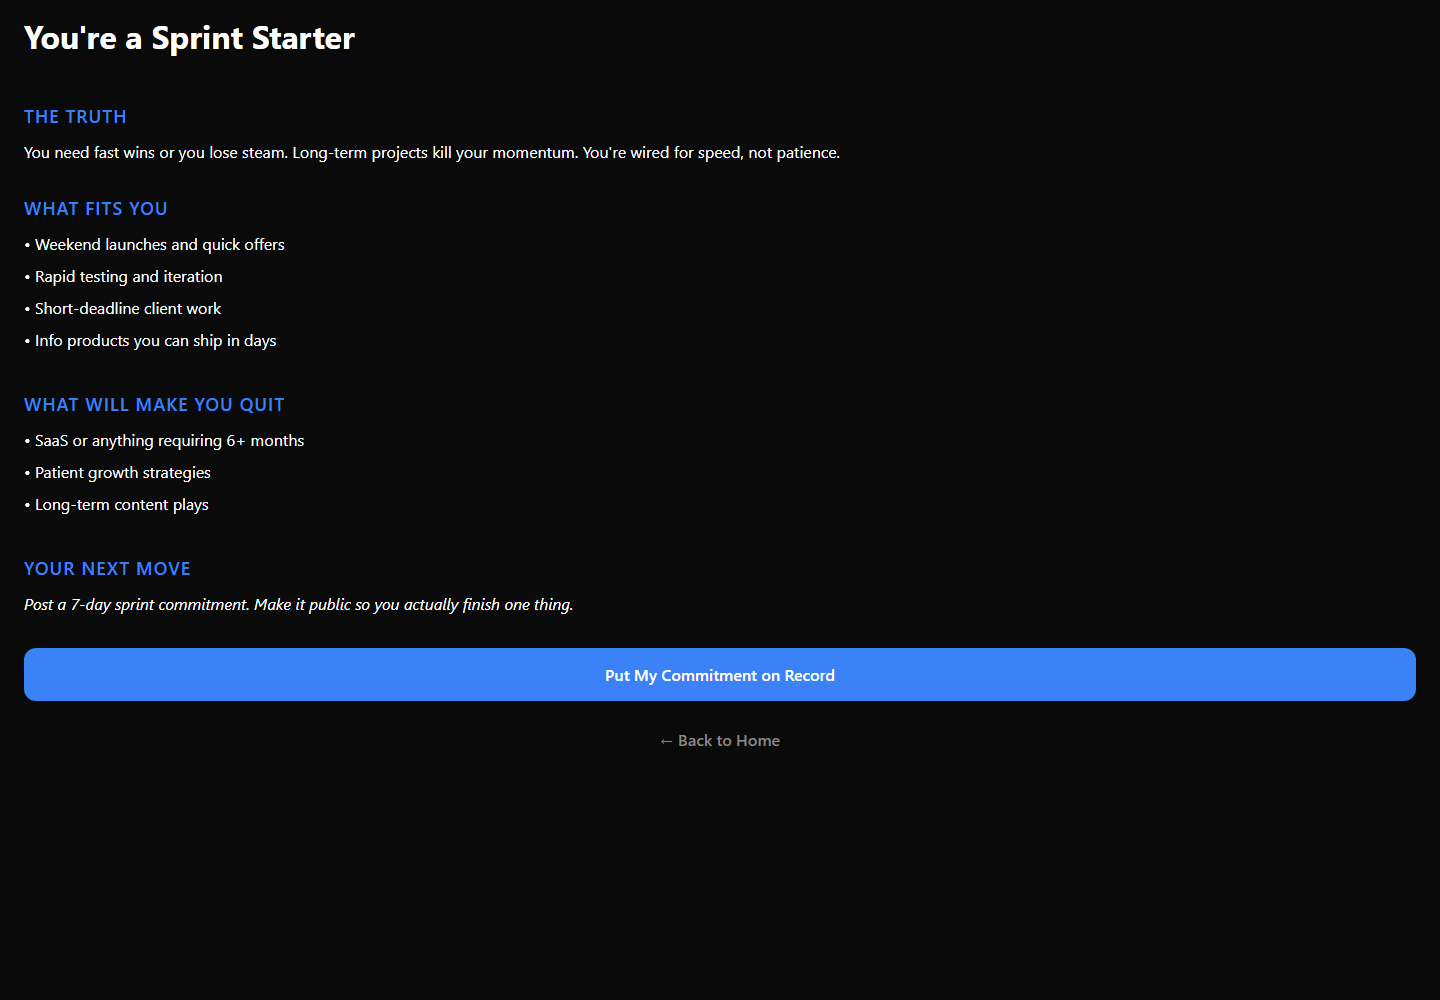
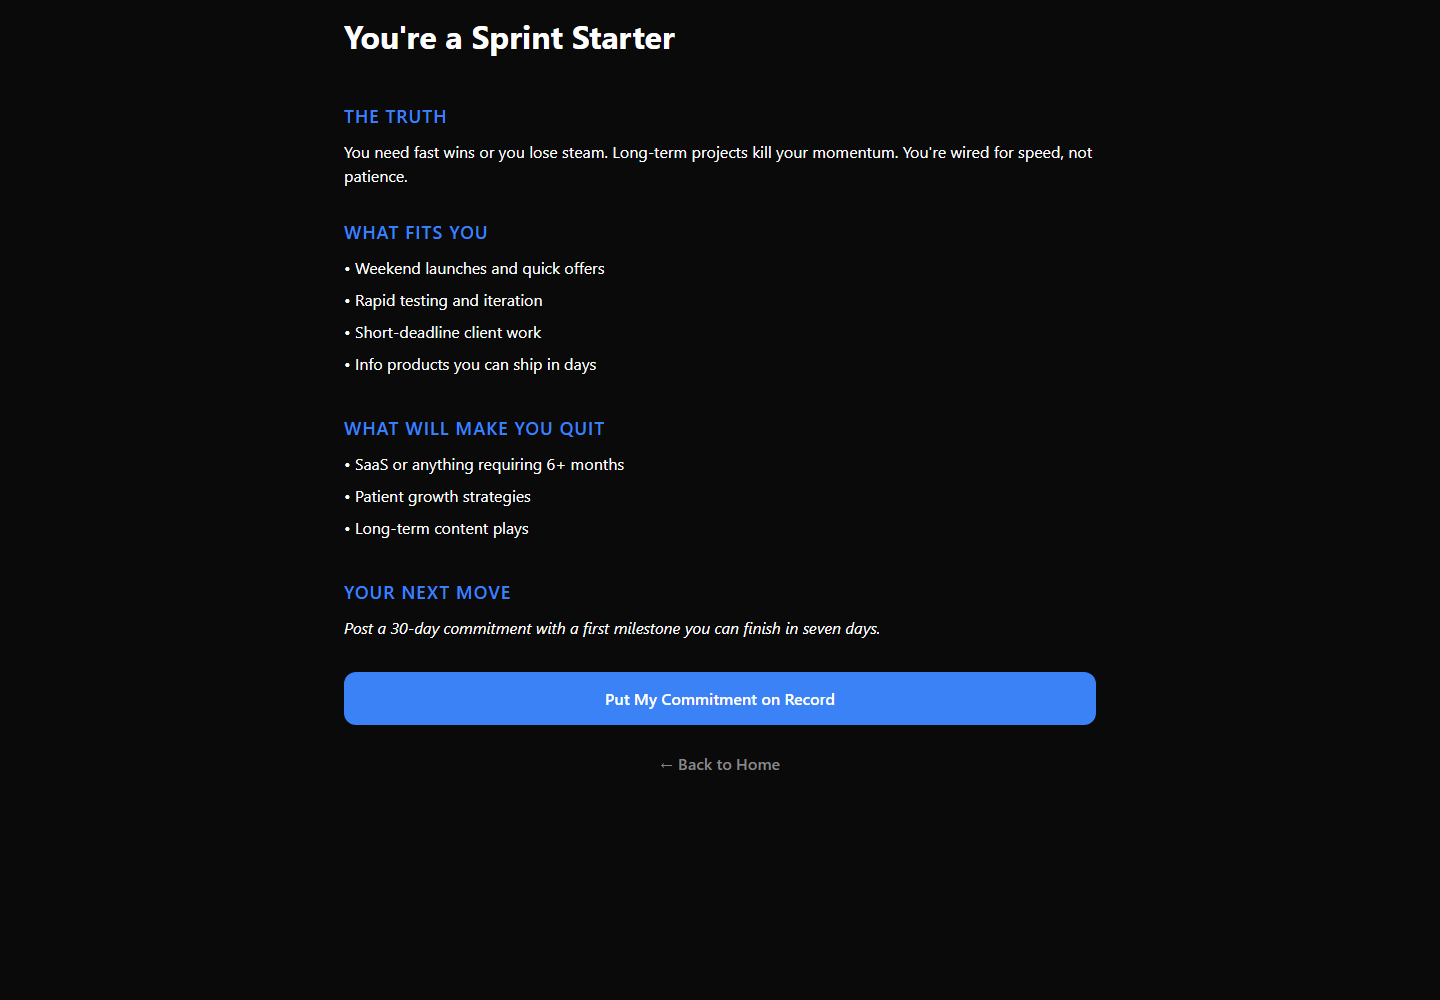
Align diagnostic guidance and improve result capture

diff --git a/constants/founderTypeQuestions.ts b/constants/founderTypeQuestions.ts
@@ -209,7 +209,7 @@ export const FOUNDER_TYPE_RESULTS = {
       'Long-term content plays',
     ],
     nextMove:
-      'Post a 7-day sprint commitment. Make it public so you actually finish one thing.',
+      'Post a 30-day commitment with a first milestone you can finish in seven days.',
   },
 
   'The 30-Day Executor': {
@@ -296,7 +296,7 @@ export const FOUNDER_TYPE_RESULTS = {
     ],
     quits: ['Everything—because you never start'],
     nextMove:
-      'Post a 7-day build sprint with ZERO customer interviews allowed. Ship something broken, then iterate.',
+      'Post a 30-day build commitment. Ship a small first version in seven days, then test and iterate.',
   },
 
   'The Scattered Starter': {

diff --git a/screens/ResultsScreen.tsx b/screens/ResultsScreen.tsx
@@ -175,6 +175,9 @@ const styles = StyleSheet.create({
     backgroundColor: '#0A0A0A',
   },
   contentContainer: {
+    width: '100%',
+    maxWidth: 800,
+    alignSelf: 'center',
     padding: 24,
     paddingTop: 16,
   },

diff --git a/README.md b/README.md
@@ -40,7 +40,7 @@ npm run web
 
 With no environment file, onboarding, diagnostic, results and the commitment form can be explored without a backend. Posting, check-ins and feed data require a configured Supabase project. Failed writes remain errors; they do not produce pretend public records.
 
-Copy the placeholders in [.env.example](.env.example) into an ignored local environment file only when configuring services. Replace the public Supabase URL/key and hCaptcha site key with actual public configuration. Never put a service-role key, Resend key, CAPTCHA secret or Sentry upload token in an EXPO*PUBLIC* variable. Public variables are embedded at build time and require a rebuild when changed. Server-only values belong in Supabase Function secrets or the source-map upload environment.
+Copy the placeholders in [.env.example](.env.example) into an ignored local environment file only when configuring services. Replace the public Supabase URL/key and hCaptcha site key with actual public configuration. Never put a service-role key, Resend key, CAPTCHA secret or Sentry upload token in an `EXPO_PUBLIC_*` variable. Public variables are embedded at build time and require a rebuild when changed. Server-only values belong in Supabase Function secrets or the source-map upload environment.
 
 Native development uses npm run android or npm run ios (iOS requires macOS). First-time native commitment creation is currently blocked by the missing native CAPTCHA integration; use the web flow. Native build configuration does not imply a store release.
 
